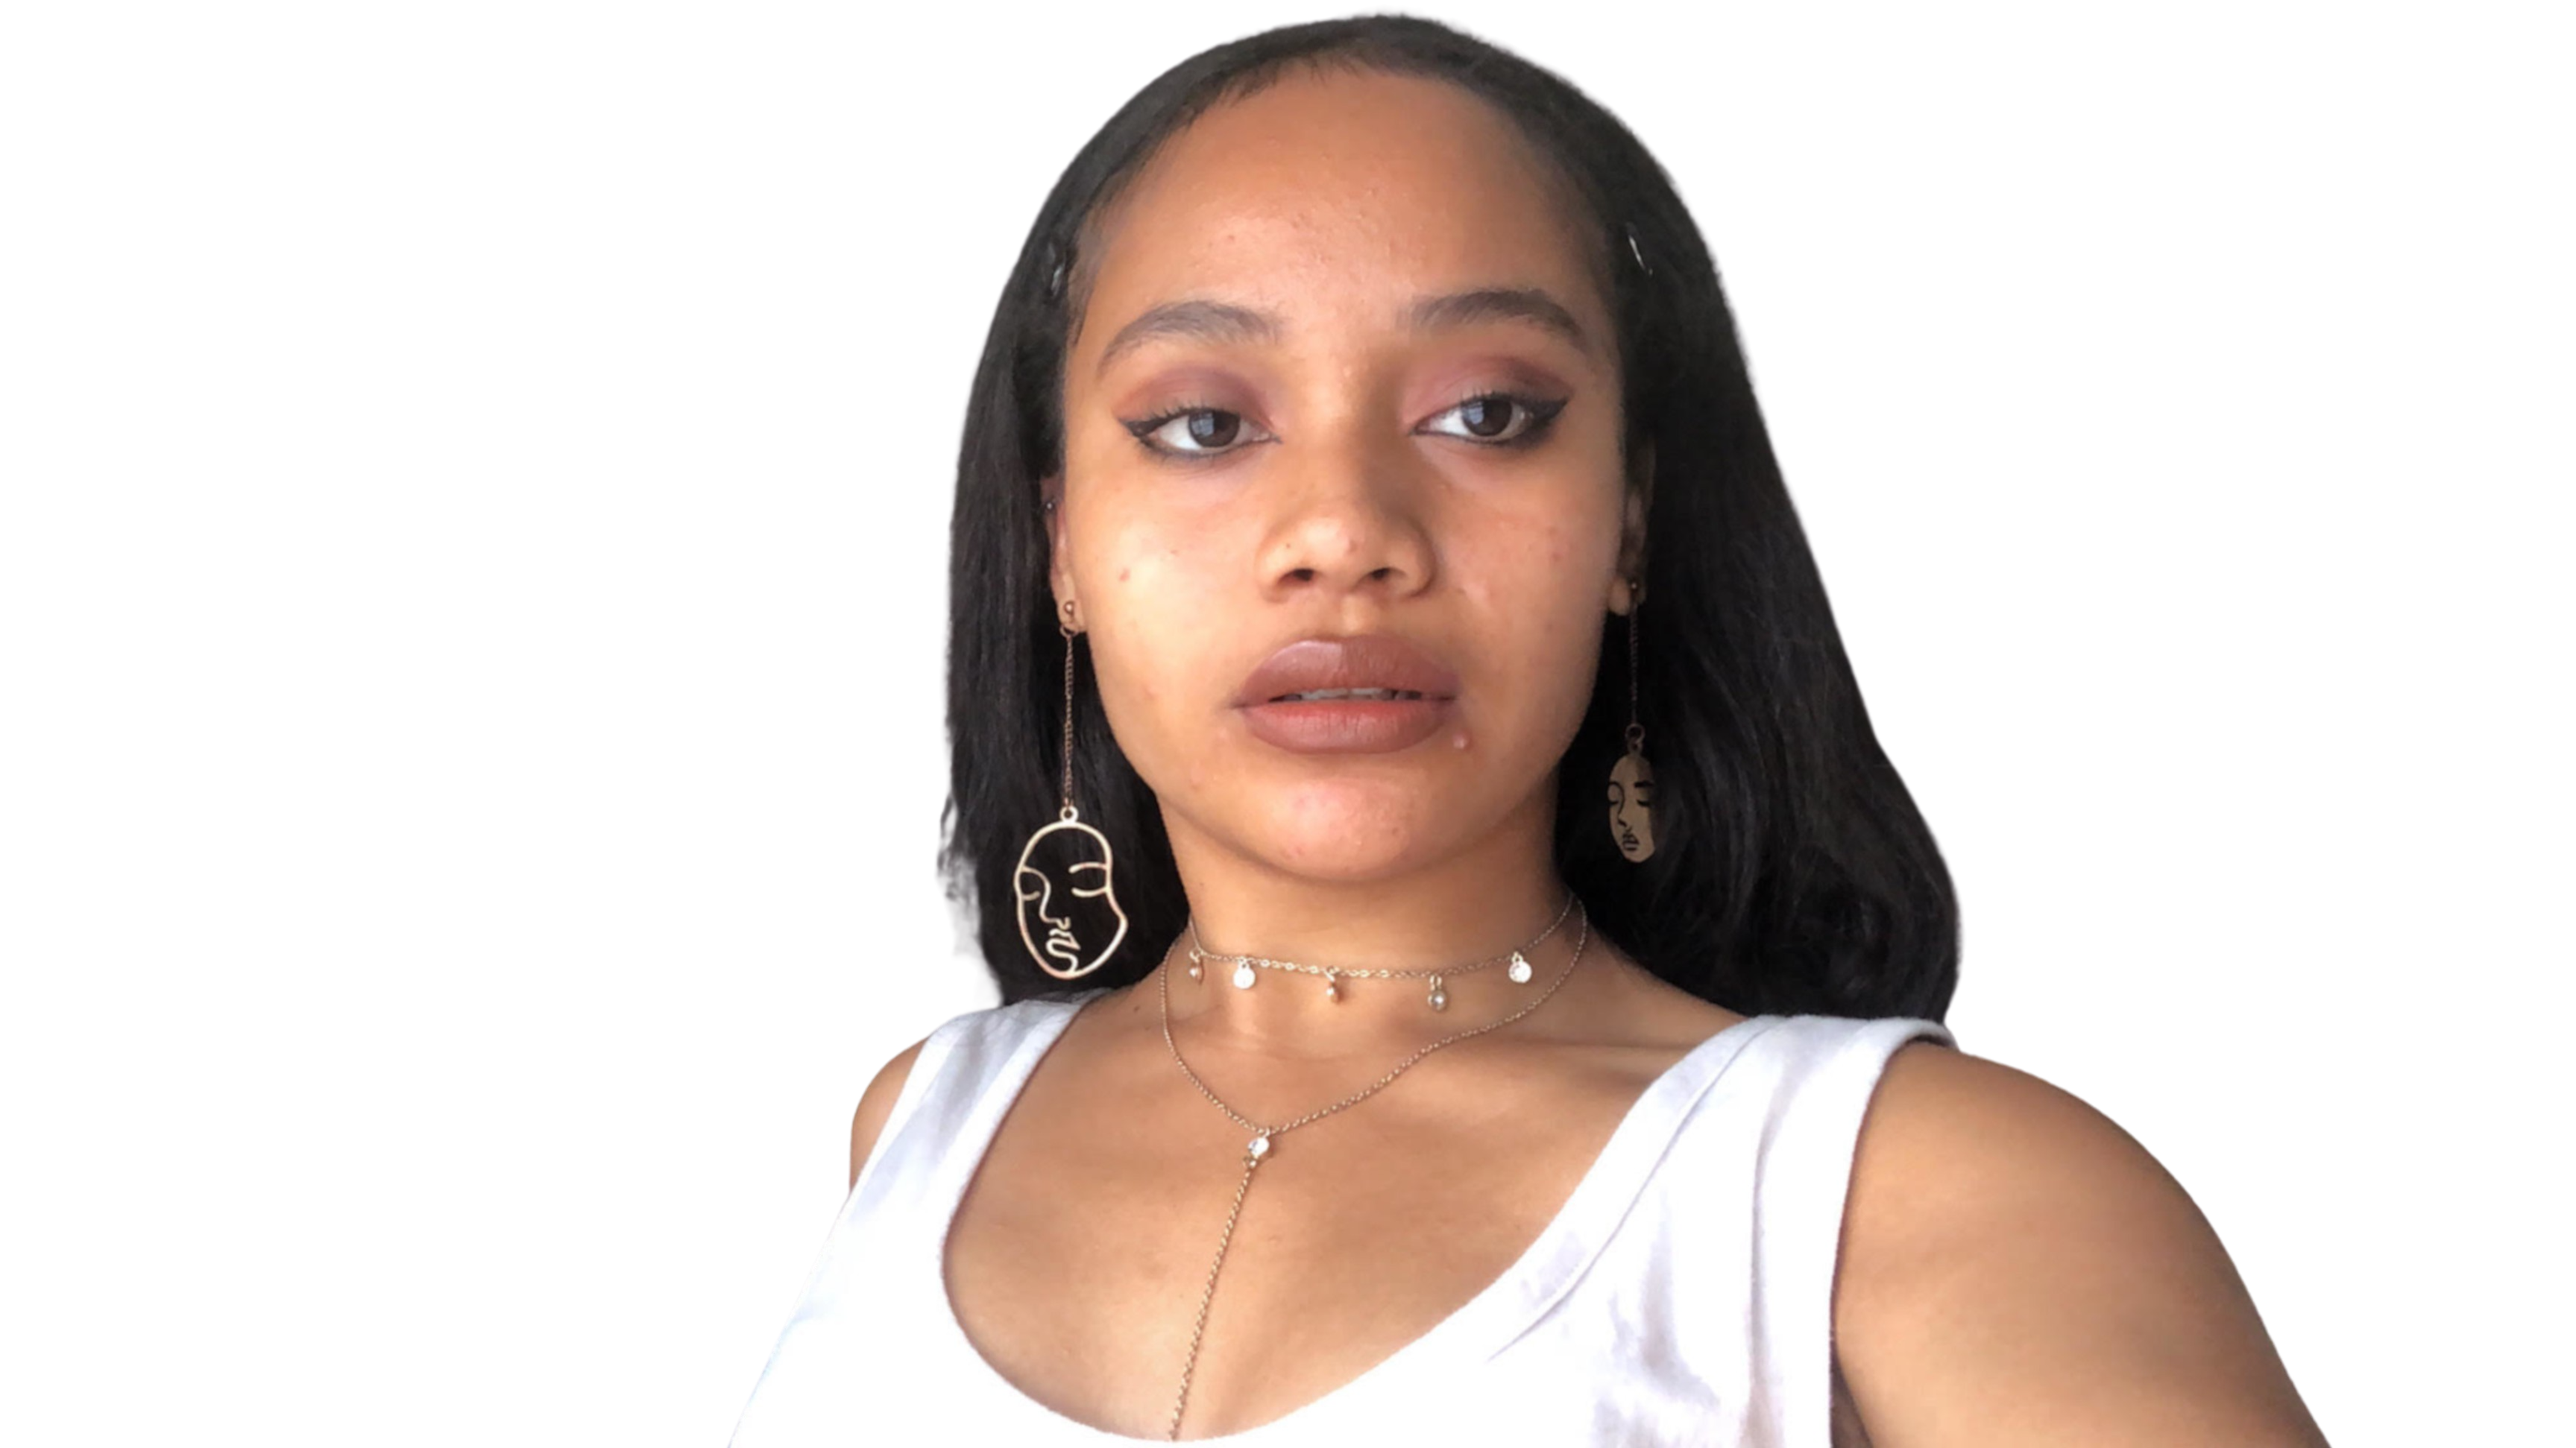
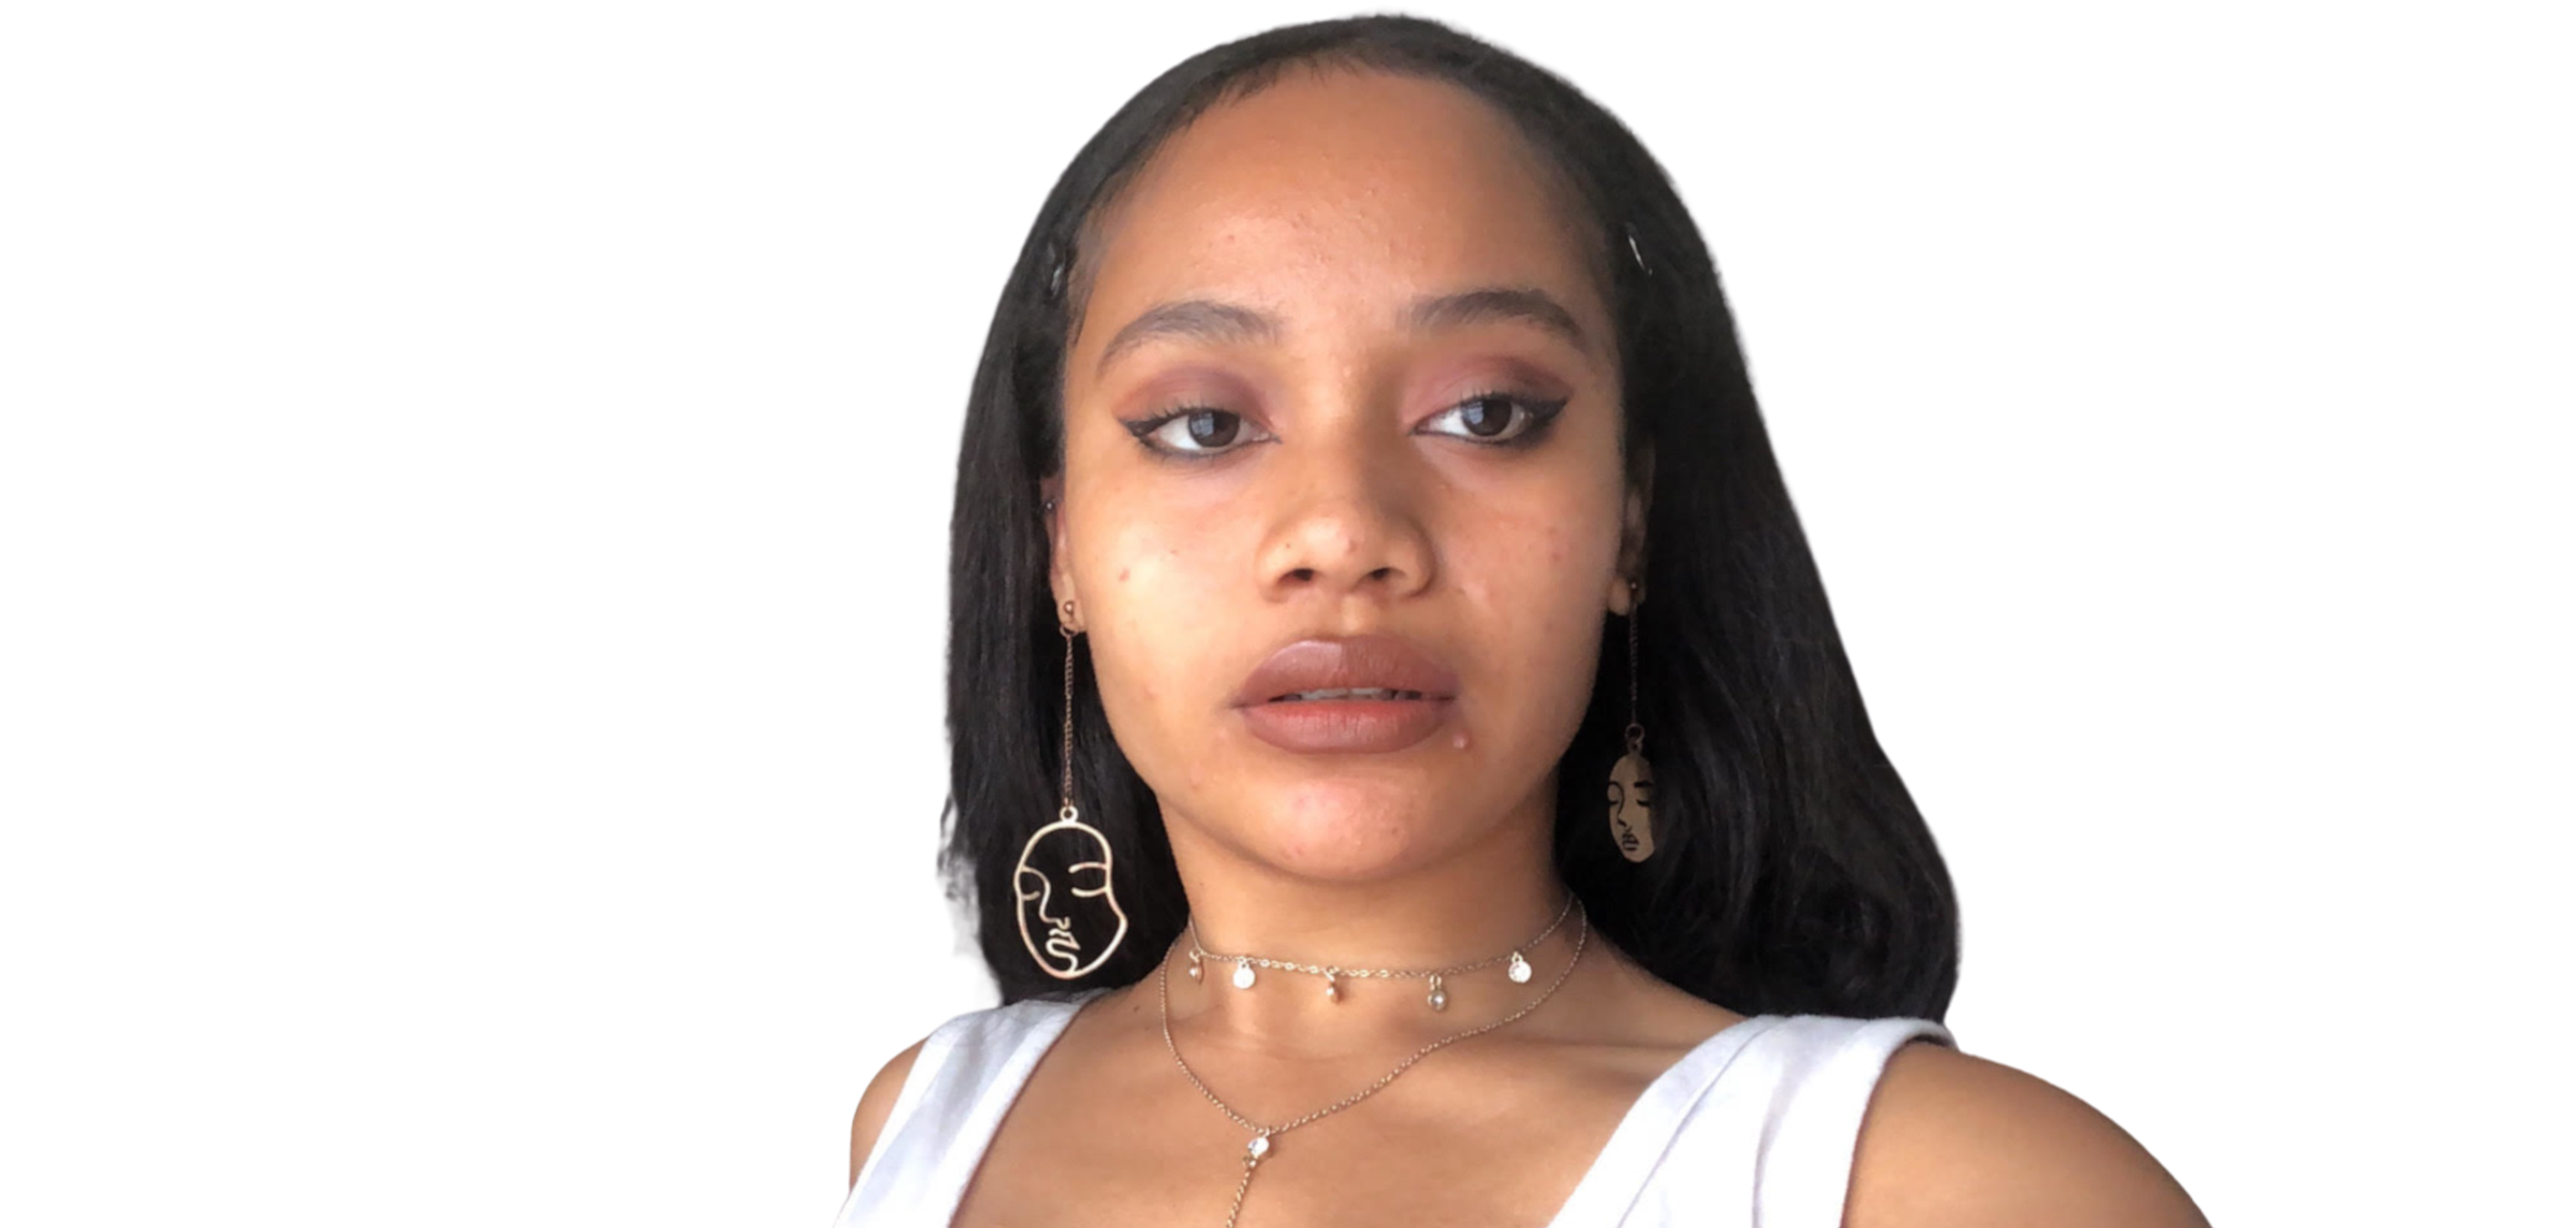
editing photo

Changed region(s): [[0.3123, 0.0, 0.9057, 1.0], [0.6559, 0.2166, 0.6871, 0.2476], [0.6559, 0.1547, 0.6871, 0.1857]]

diff --git a/assets/css/landing.css b/assets/css/landing.css
@@ -10,11 +10,22 @@ body {
     background-color: var(--dark) ;
 }
 
+#self {
+    display: block;
+    position: absolute;
+
+    padding-left: 250px;
+    bottom: 0;
+    block-size: 800px;
+    /* adds filter to photo  */
+    filter: drop-shadow(0px 4px 4px rgba(0, 0, 0, 0.25));
+}
+
 h1 {
     font-family: var(--main-font);
     font-weight: bold;
     color: var(--light);
-    font-size: 135px;
+    font-size: 120px;
 }
 
 .title {
@@ -30,14 +41,3 @@ h1 {
     color: var(--dark);
 }
 
-#self {
-    display: block;
-    position: absolute;
-    /* adds filter to photo  */
-    
-    right: 413px;
-    bottom: 0;
-    block-size: 850px;
-    right: 30px;
-    filter:drop-shadow(4px 4px 4px rgba(0.25, 0.25, 0.25, 0.25));
-}

diff --git a/mainPage.html b/mainPage.html
@@ -45,19 +45,8 @@
         </nav>
     </div>
 
-    <header id="hello">
+    <header>
 
-        <!-- photo of me + decoration  -->
-      <div>
-        <img id="box" src="assets\images\Rectangle 4.png" alt="brown box">
-        <img id="orchid" src="assets\images\png-clipart-flower-orchids-orange-bud-orchid-violet-orange-removebg-preview.png" alt="orchids">
-        <img id="self" src="assets\images\portfoliopicture-removebg-preview.png" alt="Ushante Lancaster selfie">
-     </div>
-
-        <!-- name title and description -->
-          <h2 class="header-my-name">Hello, I'm <br>Ushanté Lancaster.</h2>
-        
-          <h3 class= "header-p">Full stack designer, Sydney, Australia.</h3>
 
     </header>
 
